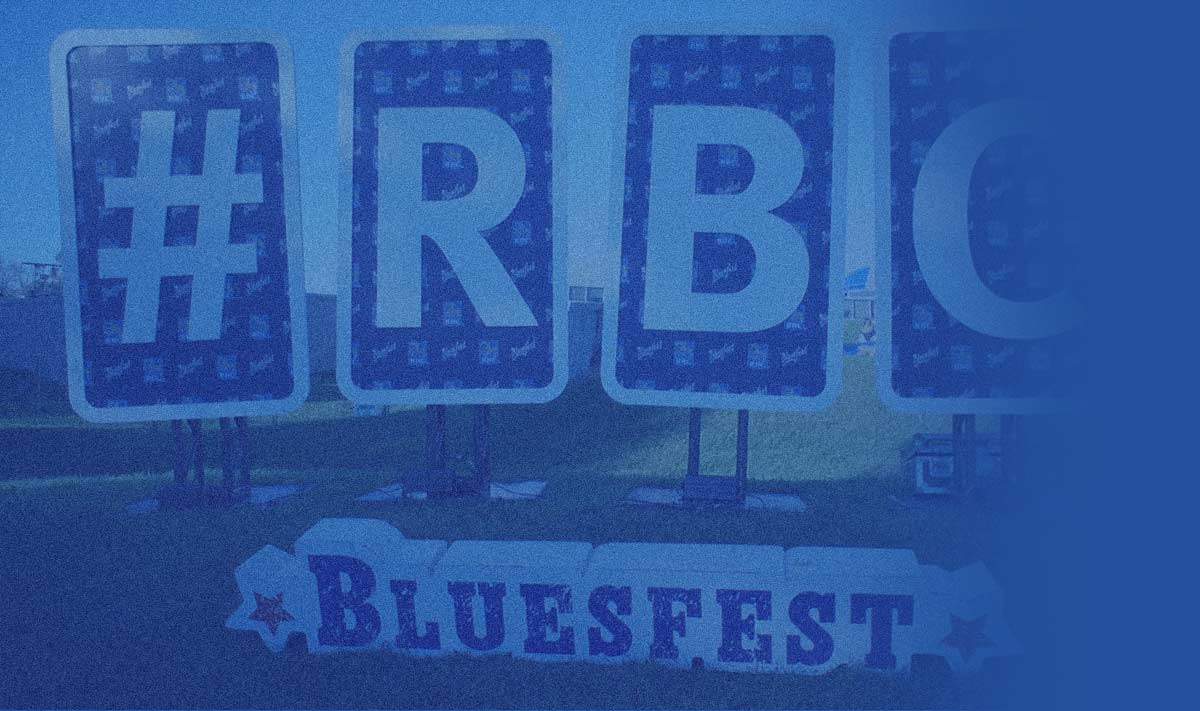
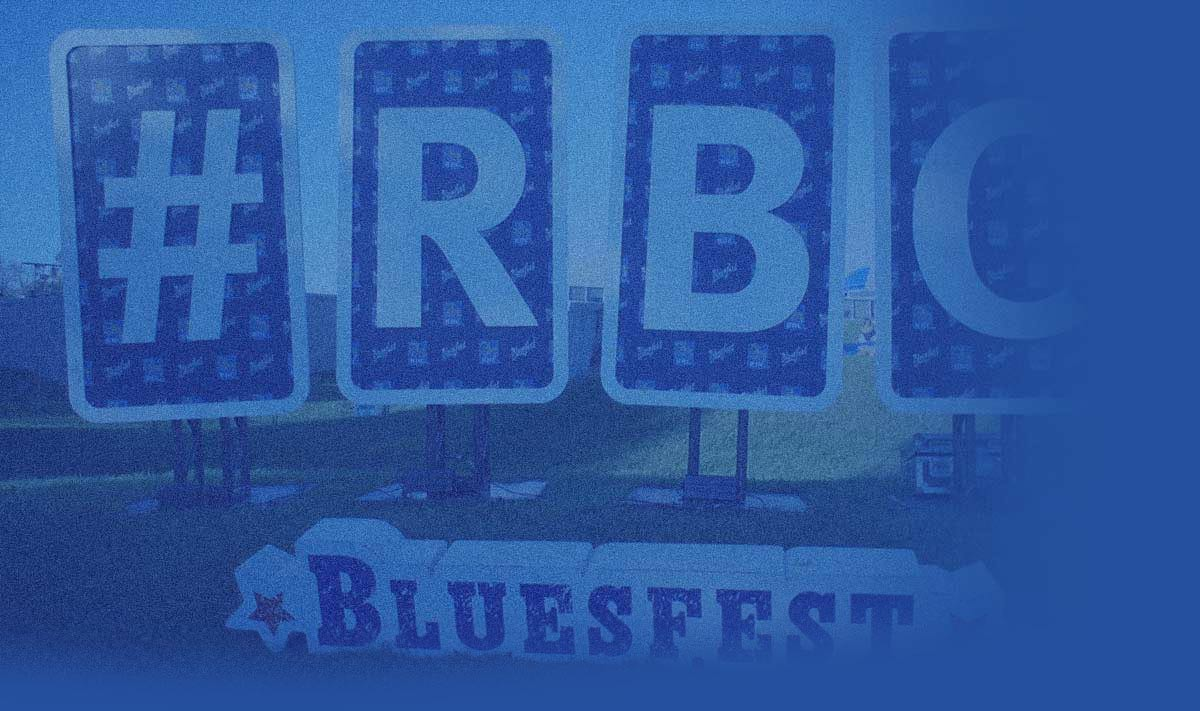
responsive fixes

Changed region(s): [[0.0, 0.8973, 0.7708, 1.0]]

diff --git a/public/gumby/css/style.css b/public/gumby/css/style.css
@@ -35,7 +35,8 @@ h1.add_line:after {
 	font-weight: 300;
 	color:#ffffff;
 	line-height: 28px;
-	padding-top:40px; 
+	padding-top:40px;
+	text-align: center; 
 }
 h2 {
 	padding-top:0px;
@@ -120,7 +121,7 @@ h3 {
 	background: url(../../img/arrow_dark.png) no-repeat; 
 }
 .btn.xlarge a {
-	padding: 0 35px;
+	padding: 0 30px;
 }
 h4 {
 	font-size: 20px;
@@ -368,8 +369,8 @@ h6 {
 	-webkit-transform: translateZ(0px);
 }
 .slide {
-	width:100%;
 	float:left;
+	overflow: hidden;
 }
 .cs_title{
 	background:#f7f7f7;
@@ -387,39 +388,23 @@ h6 {
 	background: url(../../img/posterjack_bg.jpg) -48px 0 no-repeat;
 	background-color: #288d96;	
 }
-.posterjack_tease {
-	margin-top: 84px;
-	margin-left:-70px;
-	max-width:117%;
-	padding-bottom:27px;
-}
 .su2c{
 	background: url(../../img/su2c_bg.jpg) -48px 0 no-repeat;
 	background-color: #191919;	
-}
-.su2c_tease {
-	margin-top: 62px;
-	margin-left:-70px;
-	max-width:117%;
-	padding-bottom:27px;
 }
 .rbc{
 	background: url(../../img/rbc_bg.jpg) -48px 0 no-repeat;
 	background-color: #23509d;	
 }
-.rbc_tease {
-	margin-top: 91px;
-	margin-left:-70px;
-	max-width:117%;
-	padding-bottom:27px;
-}
-.molson_tease {
-	margin-top: 91px;
-	margin-left:-70px;
-	max-width:117%;
-}
 .tease {
 	padding-top: 182px;
+}
+.slide .eight {
+	padding:70px 0 0px;
+}
+.slide .eight img {
+	max-width:117%;
+	margin-left: -10%;
 }
 .case_deets {
 	font-family: "proxima-nova";
@@ -673,9 +658,96 @@ footer {
 	margin-bottom:-120px;
 }
 
+@media only screen and (max-width: 768px) {
+	h1 {
+		font-size:95px;
+		line-height: 75px;
+	}
+	h2 {
+		font-size: 39px;
+	}
+	.about {
+		padding-top:50px;
+		padding-bottom:40px;
+	}
+	.about_txt {
+		padding-top:10px;
+	}
+	.about_txt .six.columns {
+		width:100%;
+		margin-left:0;
+	}
+	.subtext {
+		font-size: 18px;
+	}
+	.clients img {
+		margin-top:20px;
+	}
+	.slide .row .eight {
+		width:100%;
+		text-align: center
+	}
+	.cs_title {
+		padding-top:50px;
+		padding-bottom:80px;
+	}
+	.tease {
+		padding-top: 0;
+		padding-bottom: 30px;
+		width:100%!important;
+		text-align: center;
+	}
+	.tease .text-left {
+		text-align: center;
+	}
+	.case_deets {
+		text-align: center;
+		margin-bottom: 20px;
+	}
+	.services {
+		padding-top:50px;
+		padding-bottom:40px;
+	}
+	.slide .eight {
+		padding-bottom: 0px;
+	}
+	.slide .eight img {
+		max-width:67%;
+		margin-left:0;
+	}
+}
 
-
-
+@media only screen and (min-width: 1024px) and (max-width: 1190px) {
+	.tease h2 {
+		font-size: 40px;
+	}
+}
+@media only screen and (min-width: 769px) and (max-width: 1023px) {
+	.tease h2 {
+		font-size: 27px;
+	}
+}
+@media only screen and (max-width: 480px) {
+	h1 {
+		font-size:30px;
+		line-height: 30px;
+	}
+	h1.add_line:after {
+		bottom:17px;
+	}
+	.subtitle {
+		padding-top:0;
+	}
+	.navbar {
+		margin-top:10px;
+	}
+	.nav_wrap {
+		height:auto;
+	}
+	.intro_text {
+		top:19%;
+	}
+}
 
 
 

diff --git a/app/views/partials/footer.blade.php b/app/views/partials/footer.blade.php
@@ -11,7 +11,9 @@
 		</div>
 		<div class="eight columns push_one">
 			<h4>Instagram @imvideo</h4>
-			<!--<iframe src="http://snapwidget.com/in/?u=aW12aWRlb3xpbnwxMDh8NXwyfHxub3wyMHxmYWRlT3V0fG9uU3RhcnR8bm8=&v=11714" title="Instagram Widget" allowTransparency="true" frameborder="0" scrolling="no" style="border:none; overflow:hidden; width:640px; height:256px"></iframe>-->
+			<!-- INSTANSIVE WIDGET -->
+			<script src="http://instansive.com/widget/js/instansive.js"></script>
+			<iframe src="http://instansive.com/widgets/qea20184f53124d156763ffddecd6c08.html" scrolling="no" allowtransparency="true" class="instansive-widget" style="width: 100%; border: 0; overflow: hidden;"></iframe>
 			<div class="row">
 				<div class="four columns sub_subtext white alpha">
 					<i class="icon-location"></i>Toronto, ON

diff --git a/app/views/partials/mainjs.blade.php b/app/views/partials/mainjs.blade.php
@@ -46,7 +46,7 @@ $('#about').click(function(event){
 
 </script>
 <script>
-jQuery(document).ready(function ($) {
+$(document).ready(function () {
 	var slideCount = $('.slider .cs_container .slide').length;
 	var sliderWidth = 100; 
 	var slideWidth = sliderWidth /  slideCount;
@@ -74,7 +74,6 @@ jQuery(document).ready(function ($) {
             $('.slider .cs_container').css({left: ''});
         });
     };
-
     $('#previous').click(function () {
         moveLeft();
     });
@@ -83,10 +82,12 @@ jQuery(document).ready(function ($) {
         moveRight();
     });
 
-});    
+}); 
+
 $('.slide .eight img').one('webkitAnimationEnd mozAnimationEnd MSAnimationEnd oanimationend animationend', function(){
 	$(this).removeClass('wow animated fadeInLeft');
 });
+
 </script>
 
 <script>
